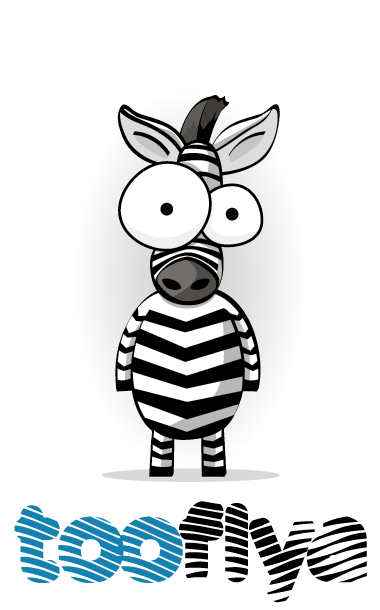
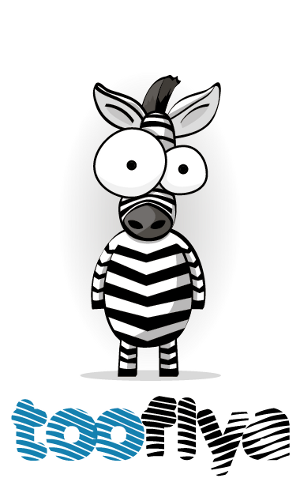
:)

diff --git a/src/com/tooflya/bubblefun/screens/LoadingScreen.java b/src/com/tooflya/bubblefun/screens/LoadingScreen.java
@@ -30,7 +30,7 @@ public class LoadingScreen extends Screen {
 	private final BitmapTextureAtlas mBackgroundTextureAtlas = new BitmapTextureAtlas(1024, 1024, BitmapTextureFormat.RGBA_8888, TextureOptions.BILINEAR_PREMULTIPLYALPHA);
 
 	/** Declare the entity that acts as a background image of the screen. */
-	private final Sprite mBackground = new Sprite(BitmapTextureAtlasTextureRegionFactory.createTiledFromAsset(mBackgroundTextureAtlas, Game.context, "preload-screen.png", 0, 0, 1, 1), this);
+	private final Sprite mBackground = new Sprite(BitmapTextureAtlasTextureRegionFactory.createTiledFromAsset(mBackgroundTextureAtlas, Game.context, "preload-screen-second.png", 0, 0, 1, 1), this);
 
 	/** Declare the entity that acts as a loading bar. */
 	private final Sprite mProgressBar = new Sprite(BitmapTextureAtlasTextureRegionFactory.createTiledFromAsset(mBackgroundTextureAtlas, Game.context, "preload-screen-fill.png", 0, 660, 1, 1), this.mBackground);
@@ -41,8 +41,8 @@ public class LoadingScreen extends Screen {
 		public void onTimePassed(TimerHandler pTimerHandler) {
 			/** Changing size of progressbar. */
 			if (mProgressBar.getWidthScaled() < mProgressBar.getBaseWidth()) {
-				mProgressBar.getTextureRegion().setWidth((int) (mProgressBar.getTextureRegion().getWidth() + 5f));
-				mProgressBar.setWidth(mProgressBar.getWidth() + 5f);
+				mProgressBar.getTextureRegion().setWidth((int) (mProgressBar.getTextureRegion().getWidth() + 0.1f));
+				mProgressBar.setWidth(mProgressBar.getWidth() + 0.1f);
 			} else {
 				/** If progressbar is full. */
 				Game.isGameLoaded = true;
@@ -61,7 +61,7 @@ public class LoadingScreen extends Screen {
 
 		this.mBackground.create().setBackgroundCenterPosition();
 
-		this.mProgressBar.create().setCenterPosition(192f, 562f);
+		this.mProgressBar.create().setCenterPosition(188f, 496f);
 		this.mProgressBar.setWidth(1);
 		this.mProgressBar.getTextureRegion().setWidth(1);
 
